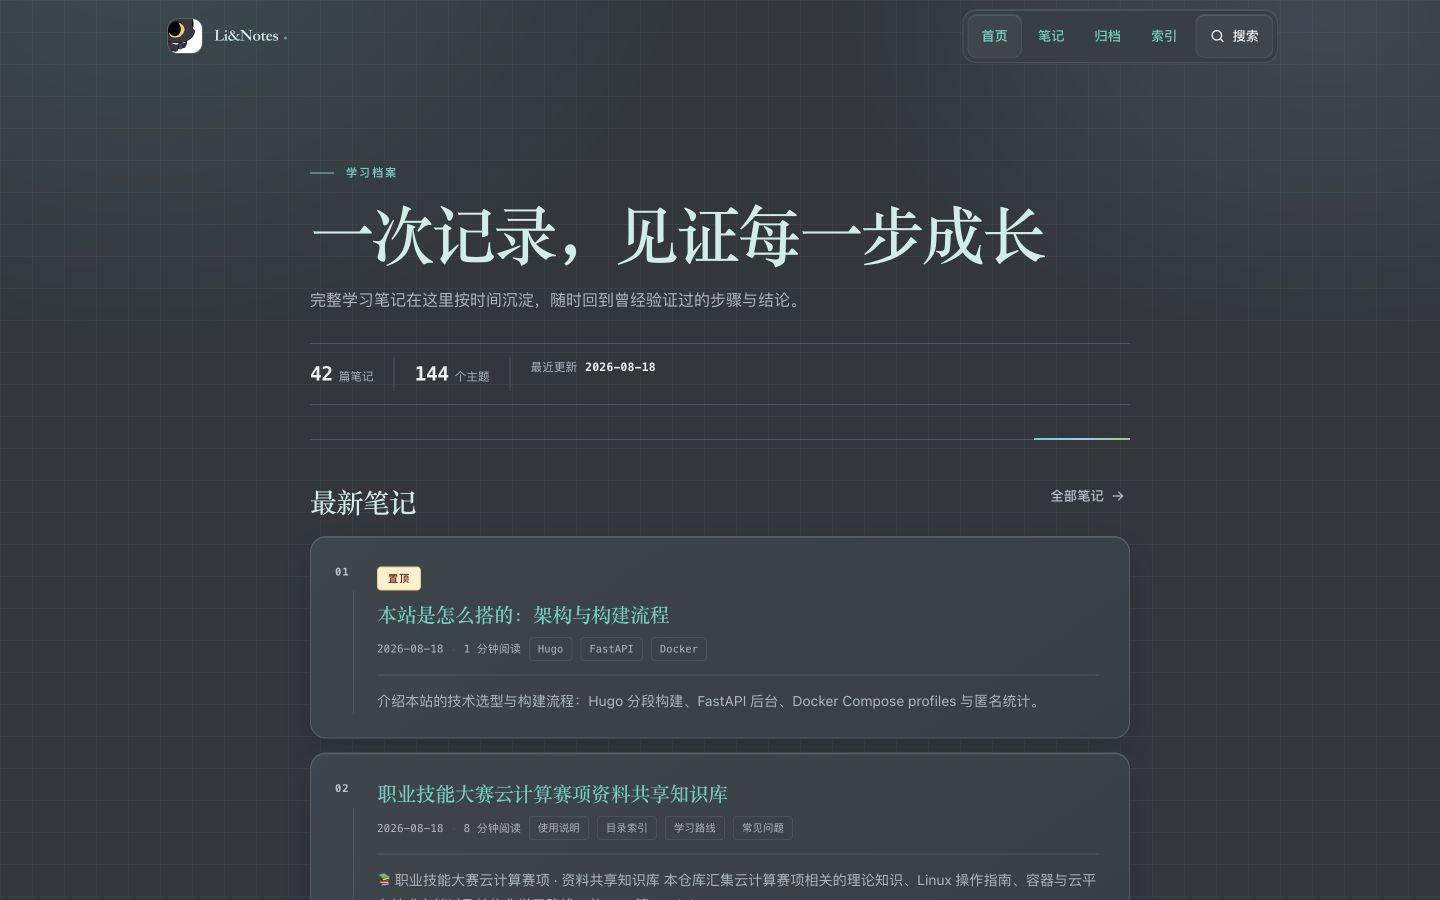
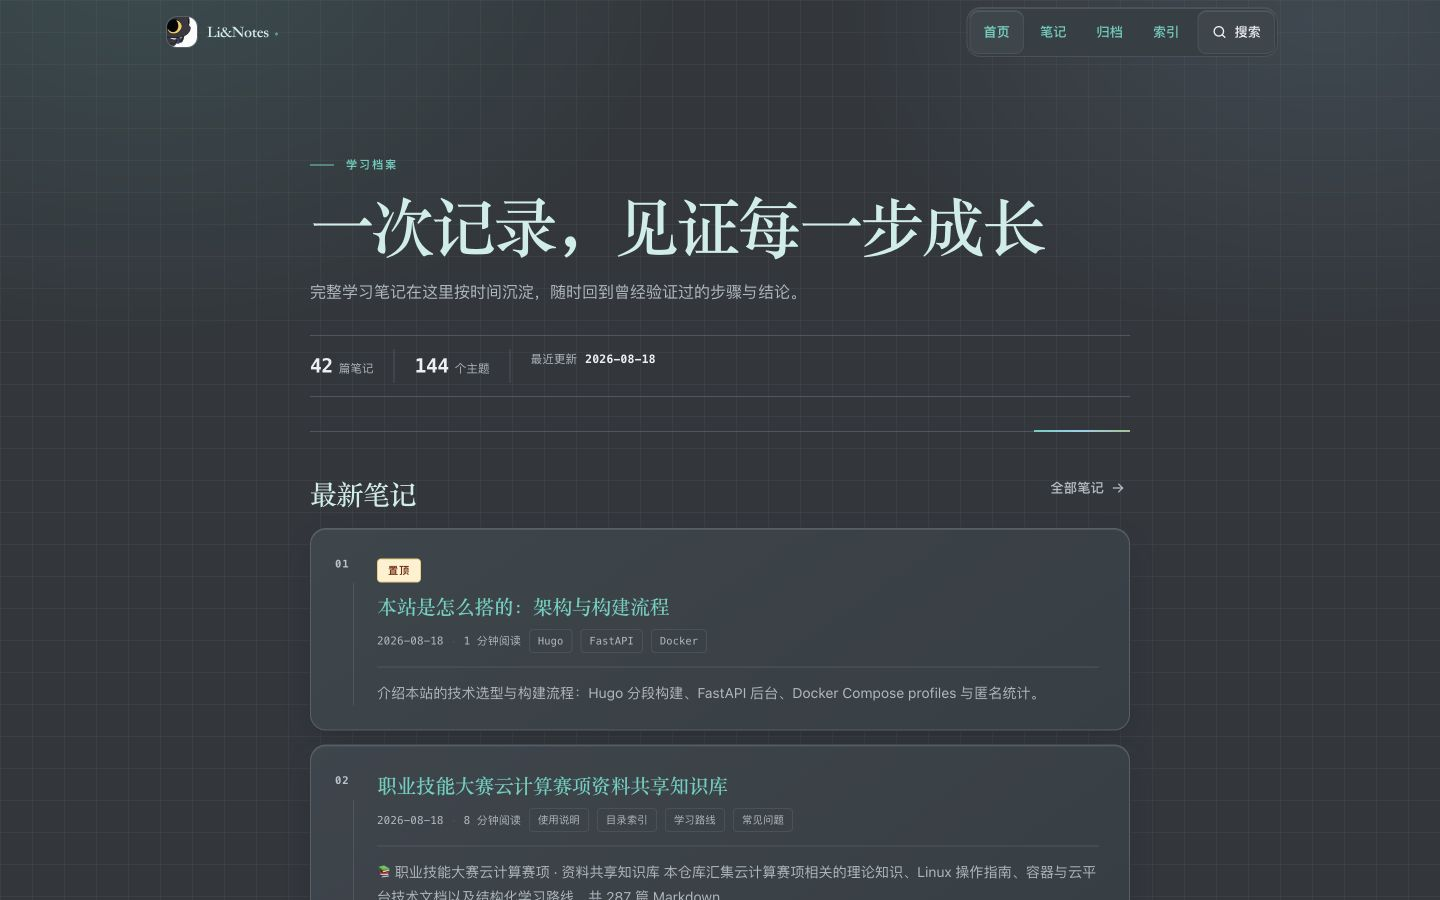
style: 压缩页眉与标签胶囊视觉高度

diff --git a/themes/blog-theme/static/css/style.css b/themes/blog-theme/static/css/style.css
@@ -1973,7 +1973,7 @@ mark {
   margin: 24px auto 0;
   justify-content: flex-start;
 }
-.tag-chip { min-height: 44px; }
+.tag-chip { min-height: 36px; }
 
 /* 文章页：标题与正文共享阅读栏宽，桌面端目录独立悬浮在右侧。 */
 .article-header {
@@ -2843,11 +2843,18 @@ body {
 .archive-item a:hover { color: var(--liblog-primary); }
 .tag-cloud { max-width: 820px; gap: 10px; }
 .tag-chip {
-  min-height: 44px;
-  padding: 0 14px;
+  position: relative;
+  min-height: 36px;
+  padding: 0 12px;
   border-radius: 5px;
   background: var(--liblog-surface-raised);
   box-shadow: inset 0 1px 0 var(--liblog-inset-highlight);
+}
+.tag-chip::after {
+  content: "";
+  position: absolute;
+  inset: -4px;
+  border-radius: inherit;
 }
 .tag-chip-count {
   border-radius: 3px;
@@ -3286,7 +3293,7 @@ body {
 
 
 /* ---------- 2026-10-23 页眉体验优化 ---------- */
-:root { --header-h: 72px; }
+:root { --header-h: 64px; }
 .site-header {
   border-color: var(--liblog-header-border);
   background: var(--liblog-header-bg);
@@ -3329,9 +3336,9 @@ body {
   gap: 10px;
 }
 .site-brand {
-  gap: 11px;
+  gap: 9px;
   min-height: 44px;
-  padding: 4px 9px 4px 4px;
+  padding: 3px 7px 3px 3px;
   border: 1px solid transparent;
   border-radius: 12px;
   transition:
@@ -3346,8 +3353,8 @@ body {
 }
 .site-brand img,
 .site-brand picture img {
-  width: 36px;
-  height: 36px;
+  width: 32px;
+  height: 32px;
   border: 1px solid var(--liblog-border-strong);
   border-radius: 11px;
   box-shadow:
@@ -3357,7 +3364,7 @@ body {
 .brand-name-text {
   color: var(--liblog-brand-fg);
   font-family: var(--liblog-font-display);
-  font-size: 1.06rem;
+  font-size: 1.02rem;
   font-weight: 600;
   letter-spacing: -0.025em;
   line-height: 1;
@@ -3383,7 +3390,7 @@ body {
 }
 .site-nav {
   gap: 2px;
-  padding: 4px;
+  padding: 2px;
   border: 1px solid var(--liblog-border);
   border-radius: 14px;
   background: var(--liblog-surface-tint);
@@ -3432,33 +3439,33 @@ body {
   flex: none;
 }
 .logo-fallback {
-  width: 36px;
-  height: 36px;
+  width: 32px;
+  height: 32px;
   border-radius: 11px;
 }
 @media (max-width: 768px) {
-  :root { --header-h: 64px; }
+  :root { --header-h: 56px; }
   .site-header-inner {
     gap: 7px;
     padding-inline: 14px;
   }
   .site-brand {
-    gap: 8px;
-    padding: 3px 5px 3px 3px;
+    gap: 7px;
+    padding: 2px 4px 2px 2px;
   }
   .site-brand img,
   .site-brand picture img,
   .logo-fallback {
-    width: 34px;
-    height: 34px;
+    width: 30px;
+    height: 30px;
     border-radius: 10px;
   }
   .brand-name-text {
-    font-size: 1rem;
+    font-size: 0.95rem;
   }
   .mobile-nav-primary {
-    gap: 2px;
-    padding: 3px;
+    gap: 1px;
+    padding: 1px;
     border: 1px solid var(--liblog-border);
     border-radius: 13px;
     background: var(--liblog-surface-tint);

diff --git a/design-system/notes/MASTER.md b/design-system/notes/MASTER.md
@@ -94,7 +94,7 @@ HUGO_BIN=/path/to/hugo-0.165.0 python scripts/build.py --full
 - 笔记、标签与归档页共用页面标题层级：来源眉题、唯一 H1、简述与统计；归档与标签按内容关系组织，不做装饰性时间线。
 - 文章页只保留模板生成的唯一 H1；桌面端目录固定在正文右侧，视口 ≤1200px 时折叠为原生可键盘操作的 `details`；正文列始终在视口中心。
 - 移动端主导航固定保留首页与搜索，“更多”菜单提供笔记、归档和内容索引入口。
-- 页眉桌面高度 72px、移动端 64px；顶部与页面底色完全融合，品牌、导航与搜索使用轻量分组表面；滚动超过 8px 后才启用同源半透明雾化层与极淡边界阴影，不改变高度。实现只消费 `--liblog-header-*` 令牌，视觉证据与回归步骤见 [HEADER-VISUAL.md](HEADER-VISUAL.md)。
+- 页眉桌面高度 64px、移动端 56px；顶部与页面底色完全融合，品牌、导航与搜索使用轻量分组表面；滚动超过 8px 后才启用同源半透明雾化层与极淡边界阴影，不改变高度。实现只消费 `--liblog-header-*` 令牌，视觉证据与回归步骤见 [HEADER-VISUAL.md](HEADER-VISUAL.md)。
 
 ## 9. 索引与小程序自动化
 
@@ -116,6 +116,7 @@ HUGO_BIN=/path/to/hugo-0.165.0 python scripts/build.py --full
 - 后台文章/配置/同步表格使用 `table-shell--cards`；移动端配置字段纵向排列，操作按钮可换行，长标题禁止省略号截断。
 - 登录页在 ≤820px 将页脚移出绝对定位，≤480px 隐藏装饰侧栏并显示紧凑品牌行，保证主按钮不被覆盖。
 - 公开站页脚在 ≤480px 保持三行居中：版权一行，ICP 备案与公安备案各一行且单条不换行；页脚高度约 73px，返回顶部按钮接近页脚时自动上移避让。
+- 标签索引胶囊视觉高度 36px、间距 10px；通过 `::after` 扩展四边各 4px，保持 44px 点击热区且不重叠。
 - 验收矩阵：公开站 320/360/390/768/1024/1280/1440；后台 320/360/390/768/1024/1280/1281/1366/1440。
 
 ## 11. 视觉质感层

diff --git a/design-system/notes/HEADER-VISUAL.md b/design-system/notes/HEADER-VISUAL.md
@@ -1,6 +1,6 @@
 # 页眉背景调和视觉记录
 
-> 版本：v1.0 ｜ 日期：2026-10-23 ｜ 来源提交：`d461cb8`
+> 版本：v1.1 ｜ 日期：2026-10-23 ｜ 基础来源：`d461cb8`；当前密度优化待提交
 > 关联：[品牌与产品意图](BRAND.md) · [实现速览](MASTER.md) · [令牌事实](../../themes/blog-theme/static/css/tokens.css)
 
 ## 1. 设计结论
@@ -21,8 +21,8 @@
 
 尺寸契约：
 
-- 桌面内容高度 72px。
-- ≤768px 内容高度 64px。
+- 桌面内容高度 64px。
+- ≤768px 内容高度 56px；移动导航外框 48px。
 - 顶部与滚动状态高度不变。
 
 令牌契约：
@@ -59,7 +59,8 @@
 - 1440px 浅色：顶部背景 `rgba(246, 251, 249, 0)`；滚动后 `rgba(246, 251, 249, 0.92)`。
 - 1440px 深色：顶部背景 `rgba(58, 63, 69, 0)`；滚动后 `rgba(58, 63, 69, 0.92)`。
 - 两种模式滚动后均使用 `blur(18px)`，页眉高度保持不变。
-- 390px 浅色页面宽度等于视口，无页面级横向滚动，页眉高度稳定。
+- 320/390px 浅色页面宽度等于视口，无页面级横向滚动，页眉高度稳定。
+- 320–768px 页眉控件最小可点击高度保持 44px；769px 起切换为桌面导航。
 - 186 项容器测试通过（1 项环境性跳过），硬编码与对比度审计、Hugo 全量构建通过。
 
 ## 5. 禁止项

diff --git a/design-system/notes/BRAND.md b/design-system/notes/BRAND.md
@@ -41,6 +41,7 @@
 - 首页、列表和文章标题使用本地宋体/衬线回退建立编辑感；正文保留可读的本地衬线，命令、日期与标签使用本地等宽回退。
 - 卡片只使用轻阴影、内高光和细边框，不做夸张玻璃拟态；强调色只出现在编号、标签、焦点与关键操作。
 - 页眉与页面底色、网格连续：顶部不形成独立色带，滚动后才出现同源轻雾化层；完整状态与截图见 [页眉背景调和视觉记录](HEADER-VISUAL.md)。
+- 页眉与交互胶囊保持紧凑密度：桌面 64px、移动端 56px；标签胶囊以 36px 视觉高度承载 44px 点击热区。
 - 网页与小程序共享同一视觉语法：网页是展开的档案页，小程序是随身速查卡；两端不互相镜像页面结构。
 - 禁止远程字体、霓虹渐变、紫色/粉色 AI 风格与装饰性时间线。
 
